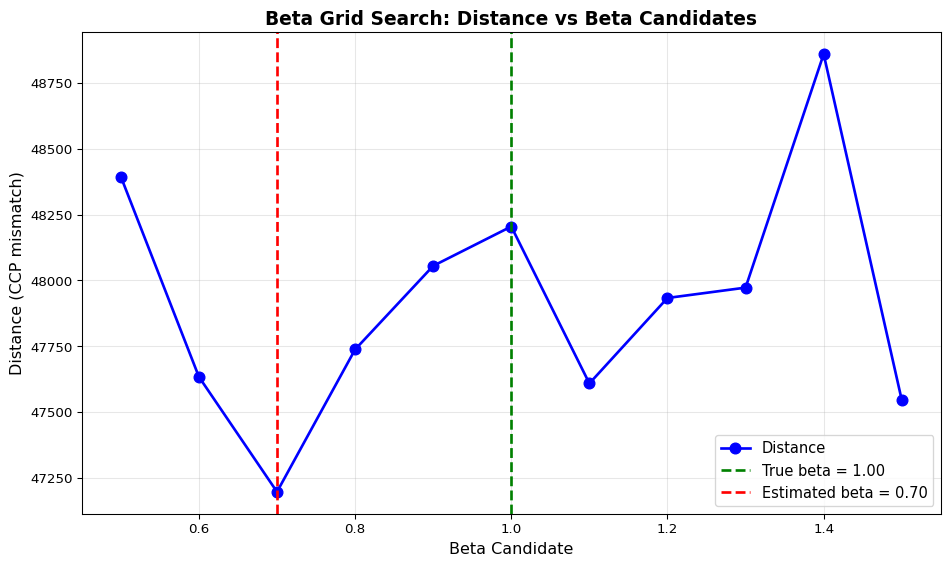
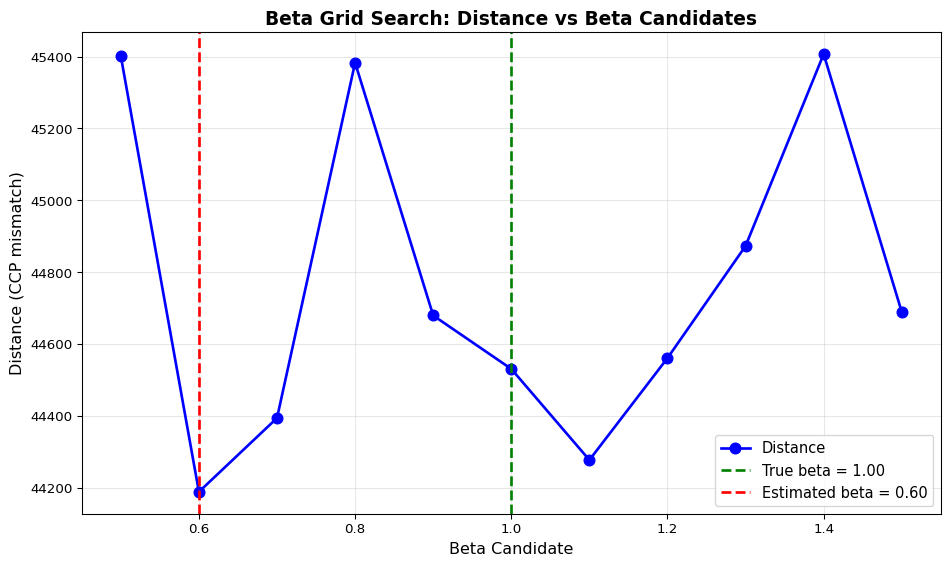
Add rendered estimator report with finite distances
Rendered estimator report at commit b22e0ab to verify finite distances
before streamlined implementation changes

🤖 Generated with [Claude Code](https://claude.com/claude-code)

diff --git a/scripts/estimate_mdp/estimate_mdp.html b/scripts/estimate_mdp/estimate_mdp.html
@@ -182,7 +182,7 @@ window.Quarto = {
 
 <section id="load-configuration-and-simulation-results" class="level2">
 <h2 class="anchored" data-anchor-id="load-configuration-and-simulation-results">Load Configuration and Simulation Results</h2>
-<div id="0ca4259a" class="cell" data-execution_count="1">
+<div id="19c7b4f0" class="cell" data-execution_count="1">
 <div class="sourceCode cell-code" id="cb1"><pre class="sourceCode python code-with-copy"><code class="sourceCode python"><span id="cb1-1"><a href="#cb1-1" aria-hidden="true" tabindex="-1"></a><span class="im">import</span> sys</span>
 <span id="cb1-2"><a href="#cb1-2" aria-hidden="true" tabindex="-1"></a>sys.path.insert(<span class="dv">0</span>, <span class="st">'..'</span>)</span>
 <span id="cb1-3"><a href="#cb1-3" aria-hidden="true" tabindex="-1"></a>sys.path.insert(<span class="dv">0</span>, <span class="st">'../../src'</span>)</span>
@@ -506,7 +506,7 @@ Algorithm: Two-Step Estimation of MDP Parameters
 </section>
 <section id="run-estimation" class="level2">
 <h2 class="anchored" data-anchor-id="run-estimation">Run Estimation</h2>
-<div id="496ad630" class="cell" data-execution_count="2">
+<div id="425cb309" class="cell" data-execution_count="2">
 <div class="sourceCode cell-code" id="cb3"><pre class="sourceCode python code-with-copy"><code class="sourceCode python"><span id="cb3-1"><a href="#cb3-1" aria-hidden="true" tabindex="-1"></a><span class="im">import</span> torch</span>
 <span id="cb3-2"><a href="#cb3-2" aria-hidden="true" tabindex="-1"></a><span class="im">import</span> matplotlib.pyplot <span class="im">as</span> plt</span>
 <span id="cb3-3"><a href="#cb3-3" aria-hidden="true" tabindex="-1"></a></span>
@@ -599,27 +599,27 @@ Estimation Configuration:
 
 Running estimation...
   Searching over 11 beta candidates in parallel...
-    Completed beta[0]=0.500, distance=48394.707031
-    Completed beta[3]=0.800, distance=47737.328125
-    Completed beta[2]=0.700, distance=47196.250000
-    Completed beta[1]=0.600, distance=47633.457031
-    Completed beta[4]=0.900, distance=48055.105469
-    Completed beta[5]=1.000, distance=48204.796875
-    Completed beta[7]=1.200, distance=47933.144531
-    Completed beta[6]=1.100, distance=47608.277344
-    Completed beta[8]=1.300, distance=47972.464844
-    Completed beta[9]=1.400, distance=48860.117188
-    Completed beta[10]=1.500, distance=47545.242188
-  Best beta: 0.7000 (k=2, distance=47196.250000)
+    Completed beta[0]=0.500, distance=45401.515625
+    Completed beta[3]=0.800, distance=45383.191406
+    Completed beta[1]=0.600, distance=44188.550781
+    Completed beta[2]=0.700, distance=44394.007812
+    Completed beta[4]=0.900, distance=44679.457031
+    Completed beta[5]=1.000, distance=44530.730469
+    Completed beta[7]=1.200, distance=44560.835938
+    Completed beta[6]=1.100, distance=44277.167969
+    Completed beta[8]=1.300, distance=44872.992188
+    Completed beta[9]=1.400, distance=45407.105469
+    Completed beta[10]=1.500, distance=44689.183594
+  Best beta: 0.6000 (k=1, distance=44188.550781)
 
 Estimation Results:
   Estimated gamma: 0.1000
   True gamma: 0.1000
   Error: 0.0000
 
-  Estimated beta: 0.7000
+  Estimated beta: 0.6000
   True beta: 1.0000
-  Error: 0.3000</code></pre>
+  Error: 0.4000</code></pre>
 </div>
 <div class="cell-output cell-output-display">
 <div>
@@ -631,15 +631,15 @@ Estimation Results:
 <div class="cell-output cell-output-stdout">
 <pre><code>
 Beta Grid Search Diagnostics:
-  Minimum distance at beta = 0.7000
+  Minimum distance at beta = 0.6000
   True beta = 1.0000
-  Distance at true beta index: 47196.250000</code></pre>
+  Distance at true beta index: 44188.550781</code></pre>
 </div>
 </div>
 </section>
 <section id="save-estimation-results" class="level2">
 <h2 class="anchored" data-anchor-id="save-estimation-results">Save Estimation Results</h2>
-<div id="38fa360f" class="cell" data-execution_count="3">
+<div id="f74fd7d5" class="cell" data-execution_count="3">
 <div class="sourceCode cell-code" id="cb6"><pre class="sourceCode python code-with-copy"><code class="sourceCode python"><span id="cb6-1"><a href="#cb6-1" aria-hidden="true" tabindex="-1"></a><span class="co"># Save estimation results</span></span>
 <span id="cb6-2"><a href="#cb6-2" aria-hidden="true" tabindex="-1"></a>output_dir <span class="op">=</span> Path(<span class="st">'../../output/estimate_mdp'</span>)</span>
 <span id="cb6-3"><a href="#cb6-3" aria-hidden="true" tabindex="-1"></a>output_dir.mkdir(parents<span class="op">=</span><span class="va">True</span>, exist_ok<span class="op">=</span><span class="va">True</span>)</span>
@@ -669,7 +669,7 @@ Beta Grid Search Diagnostics:
 </section>
 <section id="compare-estimated-and-true-parameters" class="level2">
 <h2 class="anchored" data-anchor-id="compare-estimated-and-true-parameters">Compare Estimated and True Parameters</h2>
-<div id="58229e0f" class="cell" data-execution_count="4">
+<div id="ed081cdb" class="cell" data-execution_count="4">
 <div class="sourceCode cell-code" id="cb8"><pre class="sourceCode python code-with-copy"><code class="sourceCode python"><span id="cb8-1"><a href="#cb8-1" aria-hidden="true" tabindex="-1"></a><span class="co"># Create comparison table</span></span>
 <span id="cb8-2"><a href="#cb8-2" aria-hidden="true" tabindex="-1"></a>comparison_data <span class="op">=</span> {</span>
 <span id="cb8-3"><a href="#cb8-3" aria-hidden="true" tabindex="-1"></a>    <span class="st">'Parameter'</span>: [<span class="st">'gamma'</span>, <span class="st">'beta'</span>],</span>
@@ -691,14 +691,14 @@ Beta Grid Search Diagnostics:
 Parameter Estimation Comparison:
 Parameter  True Value  Estimated Value  Absolute Error  Relative Error (%)
     gamma         0.1              0.1    2.335316e-08            0.000023
-     beta         1.0              0.7    3.000000e-01           30.000000</code></pre>
+     beta         1.0              0.6    4.000000e-01           40.000000</code></pre>
 </div>
 </div>
 </section>
 <section id="compare-equilibrium-objects" class="level2">
 <h2 class="anchored" data-anchor-id="compare-equilibrium-objects">Compare Equilibrium Objects</h2>
 <p>Now we compare the estimated and true equilibrium objects: conditional choice probabilities (CCP) and value functions. We load the true value functions from the solver results and compute the implied equilibrium objects under both true and estimated parameters.</p>
-<div id="8da5783d" class="cell" data-execution_count="5">
+<div id="c56b9348" class="cell" data-execution_count="5">
 <div class="sourceCode cell-code" id="cb10"><pre class="sourceCode python code-with-copy"><code class="sourceCode python"><span id="cb10-1"><a href="#cb10-1" aria-hidden="true" tabindex="-1"></a><span class="co"># Load true value functions from solver</span></span>
 <span id="cb10-2"><a href="#cb10-2" aria-hidden="true" tabindex="-1"></a>solver_dir <span class="op">=</span> Path(<span class="st">'../../output/solve_mdp'</span>)</span>
 <span id="cb10-3"><a href="#cb10-3" aria-hidden="true" tabindex="-1"></a><span class="cf">if</span> <span class="kw">not</span> solver_dir.exists():</span>
@@ -721,7 +721,7 @@ Parameter  True Value  Estimated Value  Absolute Error  Relative Error (%)
 <pre><code>Loaded true value functions from solver</code></pre>
 </div>
 </div>
-<div id="9a0f9cfb" class="cell" data-execution_count="6">
+<div id="144199a7" class="cell" data-execution_count="6">
 <div class="sourceCode cell-code" id="cb12"><pre class="sourceCode python code-with-copy"><code class="sourceCode python"><span id="cb12-1"><a href="#cb12-1" aria-hidden="true" tabindex="-1"></a><span class="im">from</span> mdp_solver <span class="im">import</span> GenerateStateGrid, SolveValueIteration</span>
 <span id="cb12-2"><a href="#cb12-2" aria-hidden="true" tabindex="-1"></a></span>
 <span id="cb12-3"><a href="#cb12-3" aria-hidden="true" tabindex="-1"></a><span class="co"># Solve for estimated value functions using estimated parameters</span></span>
@@ -746,111 +746,111 @@ Parameter  True Value  Estimated Value  Absolute Error  Relative Error (%)
 <div class="cell-output cell-output-stdout">
 <pre><code>
 Solving for value functions under estimated parameters...
-  Using gamma_hat=0.1000, beta_hat=0.7000
-Iteration 0: max_error = 16.124180
-Iteration 10: max_error = 1.152481
-Iteration 20: max_error = 1.136734
-Iteration 30: max_error = 1.108952
-Iteration 40: max_error = 1.094761
-Iteration 50: max_error = 1.094006
-Iteration 60: max_error = 1.097485
-Iteration 70: max_error = 1.097588
-Iteration 80: max_error = 1.094269
-Iteration 90: max_error = 1.089615
-Iteration 100: max_error = 1.083450
-Iteration 110: max_error = 1.063934
-Iteration 120: max_error = 0.985836
-Iteration 130: max_error = 1.739025
-Iteration 140: max_error = 0.400322
-Iteration 150: max_error = 0.448124
-Iteration 160: max_error = 0.132874
-Iteration 170: max_error = 0.095284
-Iteration 180: max_error = 0.131573
-Iteration 190: max_error = 0.104176
-Iteration 200: max_error = 0.076778
-Iteration 210: max_error = 0.055328
-Iteration 220: max_error = 0.036419
-Iteration 230: max_error = 0.018101
-Iteration 240: max_error = 0.013790
-Iteration 250: max_error = 0.015667
-Iteration 260: max_error = 0.017227
-Iteration 270: max_error = 0.015965
-Iteration 280: max_error = 0.011475
-Iteration 290: max_error = 0.008167
-Iteration 300: max_error = 0.008156
-Iteration 310: max_error = 0.008095
-Iteration 320: max_error = 0.007721
-Iteration 330: max_error = 0.007755
-Iteration 340: max_error = 0.007122
-Iteration 350: max_error = 0.007725
-Iteration 360: max_error = 0.006824
-Iteration 370: max_error = 0.007061
-Iteration 380: max_error = 0.007210
-Iteration 390: max_error = 0.007542
-Iteration 400: max_error = 0.006824
-Iteration 410: max_error = 0.006706
-Iteration 420: max_error = 0.005535
-Iteration 430: max_error = 0.006126
-Iteration 440: max_error = 0.007710
-Iteration 450: max_error = 0.006050
-Iteration 460: max_error = 0.009457
-Iteration 470: max_error = 0.005875
-Iteration 480: max_error = 0.008022
-Iteration 490: max_error = 0.005535
-Iteration 500: max_error = 0.005432
-Iteration 510: max_error = 0.004459
-Iteration 520: max_error = 0.005363
-Iteration 530: max_error = 0.005245
-Iteration 540: max_error = 0.005100
-Iteration 550: max_error = 0.005062
-Iteration 560: max_error = 0.004879
-Iteration 570: max_error = 0.005646
-Iteration 580: max_error = 0.004723
-Iteration 590: max_error = 0.004272
-Iteration 600: max_error = 0.004539
-Iteration 610: max_error = 0.003643
-Iteration 620: max_error = 0.004505
-Iteration 630: max_error = 0.004593
-Iteration 640: max_error = 0.004261
-Iteration 650: max_error = 0.004326
-Iteration 660: max_error = 0.004135
-Iteration 670: max_error = 0.004017
-Iteration 680: max_error = 0.004211
-Iteration 690: max_error = 0.004177
-Iteration 700: max_error = 0.004074
-Iteration 710: max_error = 0.003868
-Iteration 720: max_error = 0.003986
-Iteration 730: max_error = 0.004608
-Iteration 740: max_error = 0.005444
-Iteration 750: max_error = 0.003803
-Iteration 760: max_error = 0.004032
-Iteration 770: max_error = 0.003983
-Iteration 780: max_error = 0.003853
-Iteration 790: max_error = 0.003616
-Iteration 800: max_error = 0.003838
-Iteration 810: max_error = 0.003601
-Iteration 820: max_error = 0.004509
-Iteration 830: max_error = 0.006874
-Iteration 840: max_error = 0.003490
-Iteration 850: max_error = 0.003380
-Iteration 860: max_error = 0.005390
-Iteration 870: max_error = 0.003548
-Iteration 880: max_error = 0.002754
-Iteration 890: max_error = 0.003368
-Iteration 900: max_error = 0.003361
-Iteration 910: max_error = 0.003014
-Iteration 920: max_error = 0.003319
-Iteration 930: max_error = 0.003151
-Iteration 940: max_error = 0.003258
-Iteration 950: max_error = 0.002739
-Iteration 960: max_error = 0.003136
-Iteration 970: max_error = 0.003590
-Iteration 980: max_error = 0.003437
-Iteration 990: max_error = 0.003033
+  Using gamma_hat=0.1000, beta_hat=0.6000
+Iteration 0: max_error = 20.130367
+Iteration 10: max_error = 1.136934
+Iteration 20: max_error = 0.941263
+Iteration 30: max_error = 0.916851
+Iteration 40: max_error = 0.909428
+Iteration 50: max_error = 0.912842
+Iteration 60: max_error = 0.915913
+Iteration 70: max_error = 0.915108
+Iteration 80: max_error = 0.913036
+Iteration 90: max_error = 0.912205
+Iteration 100: max_error = 0.912067
+Iteration 110: max_error = 0.910816
+Iteration 120: max_error = 0.909321
+Iteration 130: max_error = 0.907665
+Iteration 140: max_error = 0.904148
+Iteration 150: max_error = 0.833340
+Iteration 160: max_error = 1.338932
+Iteration 170: max_error = 0.550163
+Iteration 180: max_error = 0.503288
+Iteration 190: max_error = 0.183727
+Iteration 200: max_error = 0.222351
+Iteration 210: max_error = 0.164703
+Iteration 220: max_error = 0.117914
+Iteration 230: max_error = 0.087584
+Iteration 240: max_error = 0.065968
+Iteration 250: max_error = 0.054607
+Iteration 260: max_error = 0.045589
+Iteration 270: max_error = 0.038076
+Iteration 280: max_error = 0.030903
+Iteration 290: max_error = 0.024561
+Iteration 300: max_error = 0.020285
+Iteration 310: max_error = 0.017542
+Iteration 320: max_error = 0.014544
+Iteration 330: max_error = 0.011923
+Iteration 340: max_error = 0.009781
+Iteration 350: max_error = 0.008755
+Iteration 360: max_error = 0.007233
+Iteration 370: max_error = 0.009796
+Iteration 380: max_error = 0.006691
+Iteration 390: max_error = 0.006245
+Iteration 400: max_error = 0.007042
+Iteration 410: max_error = 0.005524
+Iteration 420: max_error = 0.005581
+Iteration 430: max_error = 0.004963
+Iteration 440: max_error = 0.004662
+Iteration 450: max_error = 0.004307
+Iteration 460: max_error = 0.004128
+Iteration 470: max_error = 0.004002
+Iteration 480: max_error = 0.004005
+Iteration 490: max_error = 0.003807
+Iteration 500: max_error = 0.003498
+Iteration 510: max_error = 0.006813
+Iteration 520: max_error = 0.003242
+Iteration 530: max_error = 0.005047
+Iteration 540: max_error = 0.003292
+Iteration 550: max_error = 0.003094
+Iteration 560: max_error = 0.006031
+Iteration 570: max_error = 0.003689
+Iteration 580: max_error = 0.002777
+Iteration 590: max_error = 0.002701
+Iteration 600: max_error = 0.005100
+Iteration 610: max_error = 0.003365
+Iteration 620: max_error = 0.004074
+Iteration 630: max_error = 0.002953
+Iteration 640: max_error = 0.002518
+Iteration 650: max_error = 0.002674
+Iteration 660: max_error = 0.002518
+Iteration 670: max_error = 0.002495
+Iteration 680: max_error = 0.002510
+Iteration 690: max_error = 0.002583
+Iteration 700: max_error = 0.002430
+Iteration 710: max_error = 0.002007
+Iteration 720: max_error = 0.002052
+Iteration 730: max_error = 0.002808
+Iteration 740: max_error = 0.003235
+Iteration 750: max_error = 0.002125
+Iteration 760: max_error = 0.002197
+Iteration 770: max_error = 0.004608
+Iteration 780: max_error = 0.002365
+Iteration 790: max_error = 0.002308
+Iteration 800: max_error = 0.002220
+Iteration 810: max_error = 0.002235
+Iteration 820: max_error = 0.002831
+Iteration 830: max_error = 0.002090
+Iteration 840: max_error = 0.001827
+Iteration 850: max_error = 0.002754
+Iteration 860: max_error = 0.002201
+Iteration 870: max_error = 0.002586
+Iteration 880: max_error = 0.001991
+Iteration 890: max_error = 0.002045
+Iteration 900: max_error = 0.002781
+Iteration 910: max_error = 0.002151
+Iteration 920: max_error = 0.002590
+Iteration 930: max_error = 0.002007
+Iteration 940: max_error = 0.002010
+Iteration 950: max_error = 0.001957
+Iteration 960: max_error = 0.001781
+Iteration 970: max_error = 0.001930
+Iteration 980: max_error = 0.002964
+Iteration 990: max_error = 0.001919
 Solved value functions under estimated parameters</code></pre>
 </div>
 </div>
-<div id="3f77eb0b" class="cell" data-execution_count="7">
+<div id="9b9b7049" class="cell" data-execution_count="7">
 <div class="sourceCode cell-code" id="cb14"><pre class="sourceCode python code-with-copy"><code class="sourceCode python"><span id="cb14-1"><a href="#cb14-1" aria-hidden="true" tabindex="-1"></a><span class="co"># Generate evaluation grid</span></span>
 <span id="cb14-2"><a href="#cb14-2" aria-hidden="true" tabindex="-1"></a>S_eval <span class="op">=</span> GenerateStateGrid(N<span class="op">=</span>N, state_range<span class="op">=</span>state_range)</span>
 <span id="cb14-3"><a href="#cb14-3" aria-hidden="true" tabindex="-1"></a></span>
@@ -910,7 +910,7 @@ Solved value functions under estimated parameters</code></pre>
 Computed equilibrium objects on grid of 100 points</code></pre>
 </div>
 </div>
-<div id="30be4f53" class="cell" data-execution_count="8">
+<div id="98dd07b1" class="cell" data-execution_count="8">
 <div class="sourceCode cell-code" id="cb16"><pre class="sourceCode python code-with-copy"><code class="sourceCode python"><span id="cb16-1"><a href="#cb16-1" aria-hidden="true" tabindex="-1"></a><span class="co"># Create comparison plots</span></span>
 <span id="cb16-2"><a href="#cb16-2" aria-hidden="true" tabindex="-1"></a>fig, axes <span class="op">=</span> plt.subplots(<span class="dv">2</span>, <span class="dv">2</span>, figsize<span class="op">=</span>(<span class="dv">14</span>, <span class="dv">12</span>))</span>
 <span id="cb16-3"><a href="#cb16-3" aria-hidden="true" tabindex="-1"></a></span>
@@ -998,9 +998,9 @@ Computed equilibrium objects on grid of 100 points</code></pre>
 <div class="cell-output cell-output-stdout">
 <pre><code>
 Equilibrium Object Comparison:
-  CCP - Correlation: 0.9991, RMSE: 0.0788
-  V0  - Correlation: 1.0000, RMSE: 10.3617
-  V1  - Correlation: 1.0000, RMSE: 10.6710</code></pre>
+  CCP - Correlation: 0.9985, RMSE: 0.1074
+  V0  - Correlation: 1.0000, RMSE: 13.7123
+  V1  - Correlation: 1.0000, RMSE: 14.1305</code></pre>
 </div>
 </div>
 
